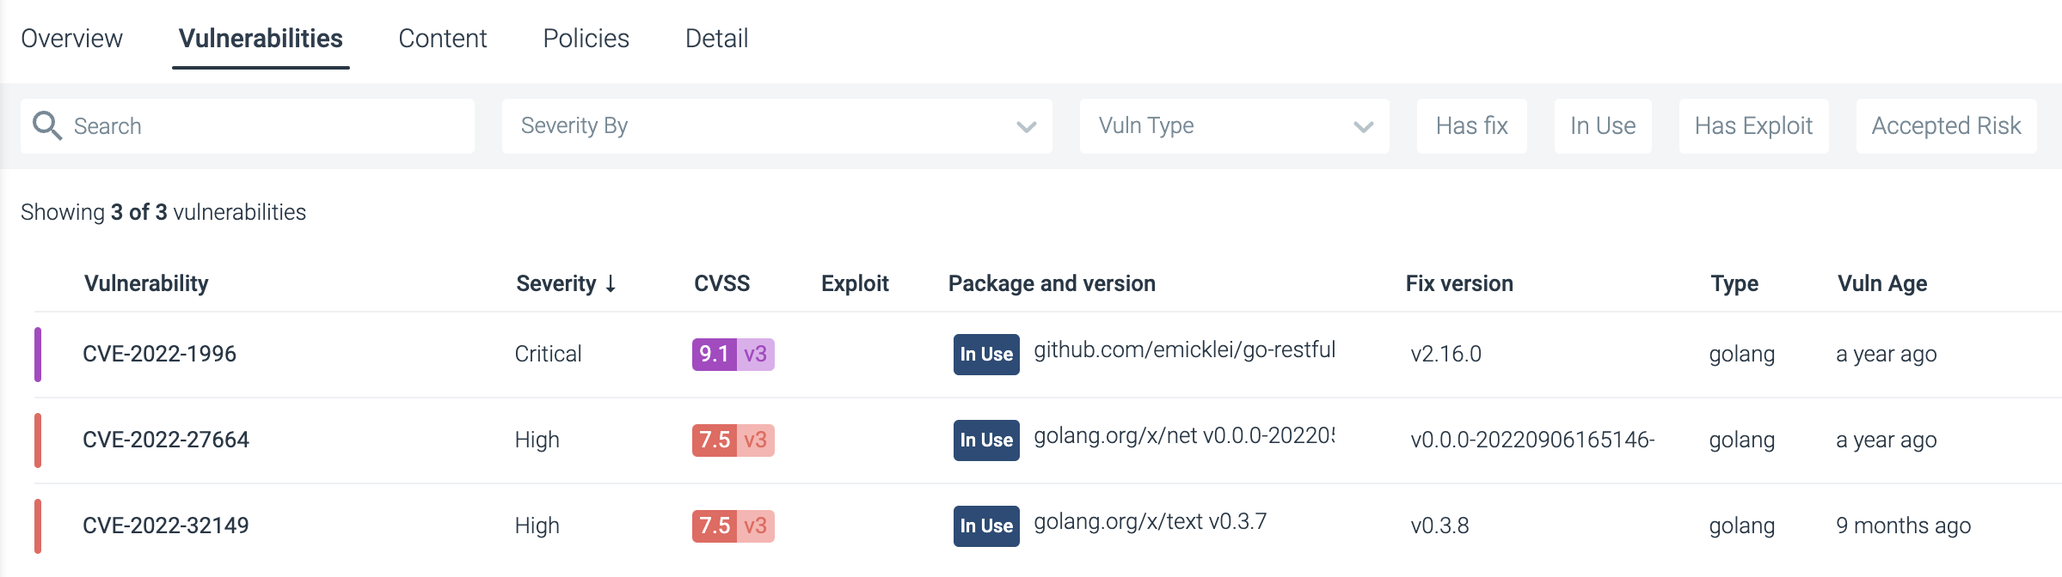
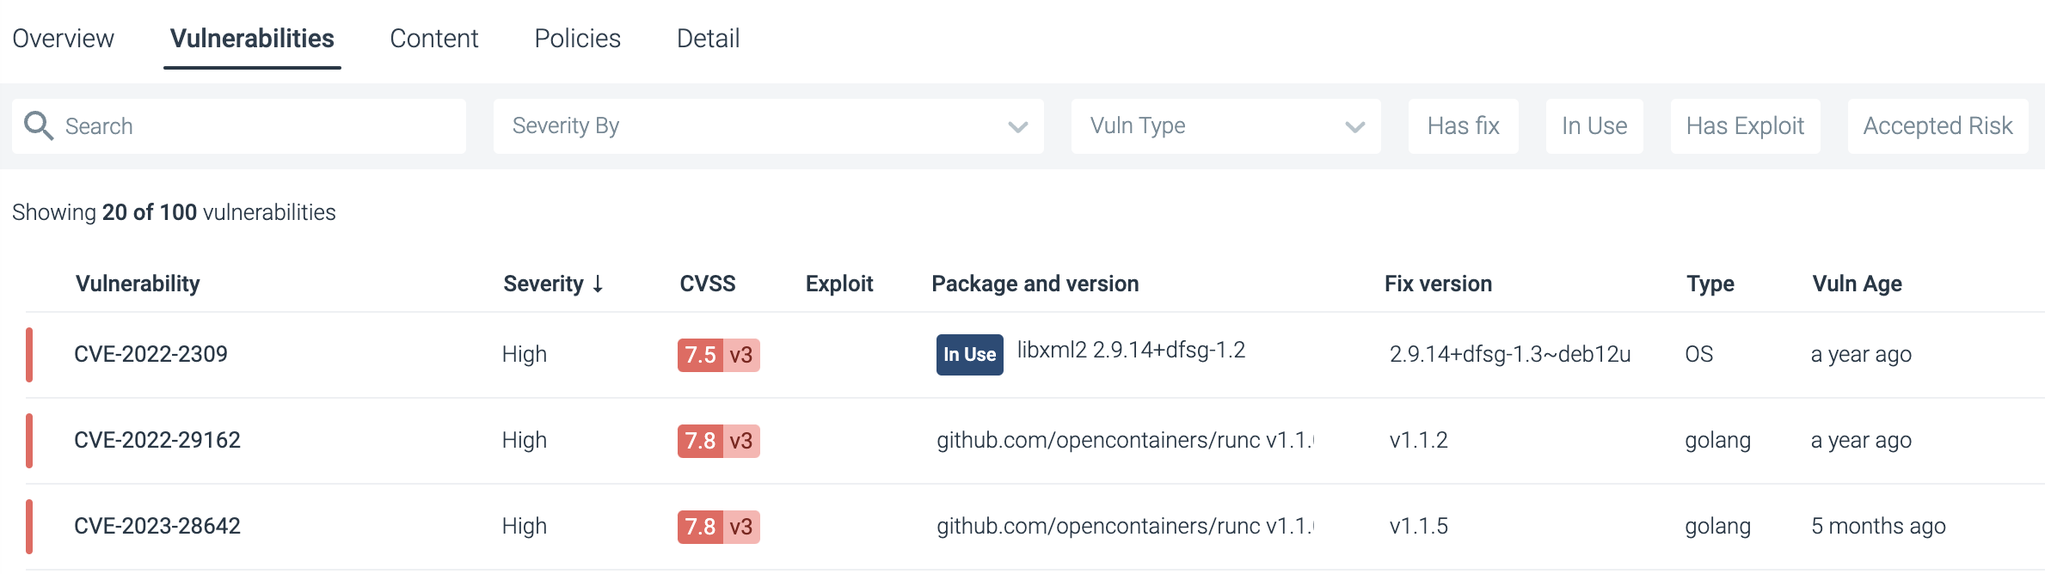
Updated Instructions

diff --git a/Readme.md b/Readme.md
@@ -10,17 +10,17 @@ We have also provisioned a user for you within Sysdig Secure. While this Sysdig 
 
 ### AWS Environment
 
-You'll have received the AWS account ID as well as your IAM username and password from the facilitator. To sign into your environment:
+You'll have received your IAM username and password from the facilitator. To sign into your environment:
 
 1. Open a web browser and go to https://aws.amazon.com/console/
 1. If prompted, choose to sign in with an IAM user (as opposed to the Root user) and enter the AWS Account ID of **sysdig-sales-engineering** 
-1. Enter the IAM user name and password you were provided and click the **Sign in** button
+1. Enter the IAM username and password you were provided and click the **Sign in** button
 1. Pick the **Sydney** or **Singapore** region in the drop-down in the upper right of the console (you'll have been told which of the two with your login details)
     1. ![](instruction-images/region.png)
 1. Go to the EC2 service's console (you can type EC2 in the Search box on top and then click on the EC2 service in the results)
 1. Click on the **Instances (running)** link under **Resources** to be taken to a list of running EC2 Instances 
     1. ![](instruction-images/instances1.png)
-1. In the **Find instance by attribute or tag** search box type **AttendeeX** (where X is your attendee number at the end of your username) and press enter/return 
+1. In the **Find instance by attribute or tag** search box type **AttendeeXX** (where XX is your attendee number at the end of your username) and press enter/return 
 1. Tick the box next to the jumpbox and then click the **Connect** button on top 
     1. ![](instruction-images/instances2.png)
 1. Choose the **Session Manager** tab and then click the **Connect** button 
@@ -31,21 +31,21 @@ You'll have received the AWS account ID as well as your IAM username and passwor
 
 ### Sysdig environment
 
-You'll have received a login and password as well as what region to sign into for Sysdig from the facilitator. To sign into your environment:
+You'll have received a login and password for Sysdig from the facilitator. To sign into your environment:
 
 1. Open a web browser and go to https://sysdig.com
 1. Under the Log In dropdown on the top right of the page choose **AWS-AP-Sydney** under **Sysdig Secure** (NOTE: not Sysdig Monitor which we won't be looking at today)
     1. ![](instruction-images/sysdiglogin.png)
 1. Enter the email address and password you were provided for Sysdig and click the **Log in** button
-1. On the Customize your Sysdig experience screen just click the **Get into Sysdig** button in the lower right hand corner
+1. If you see the Customize your Sysdig experience screen, then click the **Get into Sysdig** button in the lower right hand corner to take you through to the **Home** screen
 
 ## Module 1 - Runtime Threat Detection and Prevention
 
-In our first module we'll be exploring Sysdig's capabilities around detecting - and even preventing - runtime threats.
+In our first module, we'll be exploring Sysdig's capabilities around detecting - and even preventing - runtime threats.
 
-Regardless of how an attacker gets in, they will do many of the same things - a predictable sequence of things best explained by the [MITRE ATT&CK Framework](https://attack.mitre.org/). Sysdig's threat research team runs a large fleet of honeypots around the world to learn first-hand all the things people do once they get in - and then continually update our library of [Rules](https://docs.sysdig.com/en/docs/sysdig-secure/policies/threat-detect-policies/manage-rules/) (what to look for) and [Managed Policies](https://docs.sysdig.com/en/docs/sysdig-secure/policies/threat-detect-policies/manage-policies/) (collection of Rules to look for - and what to do when we find it) to alert all of our customers to those suspicious behaviors within their environments in real-time as they emerge.
+Regardless of how an attacker gets in, they will do many of the same things - a predictable sequence of things best explained by the [MITRE ATT&CK Framework](https://attack.mitre.org/). Sysdig's threat research team runs a large fleet of honeypots around the world to learn first-hand all the things people do once they get in - and then continually updates our library of [Rules](https://docs.sysdig.com/en/docs/sysdig-secure/policies/threat-detect-policies/manage-rules/) (what to look for) and [Managed Policies](https://docs.sysdig.com/en/docs/sysdig-secure/policies/threat-detect-policies/manage-policies/) (what to do when we find it) on behalf of all of our customers. You can also make your own custom (Falco) Rules and/or Policies beyond what we offer if you'd like - this is fully transparent and based on opensource tooling/standards rather than a magic black box!
 
-Our agent(s) continually watch for the **Rules** against various streams of activity (defined in your **Policies**) and then fire **Events** when it sees them (with relevant context) in real-time. It can do so against these sources - with more coming soon such as from other popular cloud/SaaS services:
+Our agent(s) continually watch for the **Rules** against various streams of activity (defined in your **Policies**) and then fire **Events** when it sees them, with all the relevant context, in real-time. It can do so against these sources - with more coming soon such as from other popular cloud/SaaS services (such as GitHub, Okta, etc.):
 * Linux kernel System Calls of your Nodes/Containers
 * The Kubernetes Audit Trail
 * The audit trails of AWS, Azure and GCP
@@ -61,8 +61,9 @@ In addition to our 'traditional' Rules/Policies-based approach, there are two mo
 1. So lets's generate some Events!
     1. Click this link to open the (simple yet insecure) code for the security-playground service on your cluster in a new tab - https://github.com/jasonumiker-sysdig/example-scenarios/blob/main/docker-build-security-playground/app.py
         1. This Python app serves a **very** insecure REST API that will return the contents of any file on the filesystem, write any file to the filesystem and/or execute any file on the filesystem in response to simple **curl** commands
-        1. This is simulating a very bad remote code execution (RCE) vulnerability - which could be either with your code or in a package it uses (e.g. Log4J, Struts, etc.)
-            1. As it is the behavior that happens when that is exploited that matters here!
+            1. And you can combine them to download/write a file then execute it for example
+        1. This is simulating a very bad remote code execution (RCE) vulnerability - which could be either with your own code or in a package it uses (e.g. Log4J, Struts, etc.)
+            1. As it is detecting what happens when the vulnerability is being exploited that we're interested in here
     1. Go back to the the Session Manager terminal browser tab for your jumpbox
     1. Type **cat ./example-curls.sh** to have a look at a script with some example **curl** commands we are going to run against the security-playground service:
         1. Reading the sensitive path **/etc/shadow**
@@ -84,24 +85,24 @@ In addition to our 'traditional' Rules/Policies-based approach, there are two mo
     1. Choose the Events tab on the right
     1. As you can see there are a number of events that Sysdig picked up here - in real-time!
         1. ![](instruction-images/insights3.png)
-    1. If you click into the the top **Detect outbound connections to common miner pools** you'll see all the context of that event including details of the process, the network, the AWS account, the Kubernetes cluster/namespace/deployment, the host as well as the container
+    1. If you click into the the top **Detect outbound connections to common miner pools** and then scroll through it you'll see all the context of that event including details of the process, the network, the AWS account, the Kubernetes cluster/namespace/deployment, the host as well as the container
        1. In particular the process tree view shows us that our Python app (gunicorn) launched a shell that launched the crypto miner xmrig - that looks suspicious!
        1. ![](instruction-images/processtree.png)
+       1. You can also expand out each section by clicking the carrot exposing even more details/context
 1. Understanding these Events
-    1. You should click into each Event to reveal all the detail/context of each. The things that we picked up here include:
+    1. You should scroll down to the oldest/first Event then click into each to reveal all the detail/context of each. The things that we picked up here include:
         1. **Read sensitive file untrusted** - reading the **/etc/shadow** file which a web service shouldn't be doing
-        1. **Drift Detection** - every time an executable was added to the container at runtime that wasn't in the image 
-            1. It is not best practice to make changes to containers at runtime (rather you should build a new image and redeploy the service in an immutable pattern)
-        1. **Launch Package Management Process in Container** - just like with **Drift Detection** you shouldn't be adding or updating packages in running containers with apt/yum/dnf - but instead do it in your **Dockerfile** as part of the container build process
-        1. **Launch Suspicious Network Tool in Container** - not only shouldn't you be doing this (you know your own environment) but it is a common early step for attackers to try to work out what networks the workload they've exploited is running on and what else they can get to
-        1. **Privileged Shell Spawned Inside Container** - running shell scripts as root within a running container is suspicious/unusual
-        1. **The docker client is executed in a container** - this fires not just on the **docker** CLI but also other container CLIs such as **crictl**. 
+        1. **Drift Detection** - every time an executable was added to the container at runtime (it wasn't in the image) and then it was run
+            1. It is not best practice to make changes to containers at runtime - rather you should build a new image and redeploy the service in an immutable pattern
+        1. **Launch Package Management Process in Container** - just like with **Drift Detection**, you shouldn't be adding or updating packages in running containers with apt/yum/dnf - but instead do it in your **Dockerfile** as part of the container image build process
+        1. **Suspicious network tool downloaded and launched in container** - it is a common early step for attackers to run a scan to try to work out what network the workload they've exploited is in, and thus, what else they can get to
+        1. **The docker client is executed in a container** - this fires not just on the **docker** CLI but also other container CLIs such as **crictl** and **kubectl**. 
             1. It is unusual for a container to be trying to talk directly to the container runtime/socket on a Kubernetes cluster - and that you can is actually proof a container escape has happened!
-            1. Note that if you expand out the Process section it'll show the commands that were run such as that **psql** that was exfiltrating our data.
+            1. Note that if you expand out the Process section it'll show the commands that were run such as that **psql** that was exfiltrating our data
             1. ![](instruction-images/psql.png)
-        1. **Contact EC2 Instance Metadata Service From Container** - your EKS Pods should be using other means such as [IAM Roles for Service Accounts (IRSA)](https://docs.aws.amazon.com/eks/latest/userguide/iam-roles-for-service-accounts.html) to interact with AWS. It going through the Node to use its is suspicious.
+        1. **Contact EC2 Instance Metadata Service From Container** - your EKS Pods should be using other means such as [IAM Roles for Service Accounts (IRSA)](https://docs.aws.amazon.com/eks/latest/userguide/iam-roles-for-service-accounts.html) to interact with AWS. It going through the Node to use its credentials instead is suspicious
         1. **Malicious filenames written** and **Malicious binary detected** - we look for many suspicious filenames and hashes from our threat feeds - including crypto miners such as the **xmrig** here
-        1. **Detect outbound connections to common miner pool ports** - we look at network traffic and when the destination are things like crypto miner pools (which will pick up even if they obfuscate the miner filename etc.)
+        1. **Detect outbound connections to common miner pool ports** - we look at network traffic (at Layer 3) and when the destination are suspicious things like crypto miner pools or [Tor](https://www.torproject.org/) entry nodes
 
 And this is only a small sample of the Rules we have out-of-the-box as part of the service!
 
@@ -135,45 +136,52 @@ And, if we do all three, then we could have prevented the **entire** attack (rat
 
 ### How to fix this workload (security-playground)
 
-For each of the things above - these are the solutions:
+For each of the causes above - these are the solutions:
 1. To fix the vulnerabilities in our case here, we can use a Static application security testing (SAST) product to identify our insecure code. Our partner [Snyk](https://snyk.io/product/snyk-code/) is a good choice here. 
     1. ![](instruction-images/Snyk-SAST.png)
-    1. Alternatively, if this was based on a known/public CVE within the app/container (such as Log4J etc.) instead, Sysdig's Vulnerability Management (which we'll explore in the next module) would have detected it and let us know to patch the base layer or code package to an updated version with out the vulnerability (and what version has the fix).
+    1. Alternatively, if this was based on a known/public CVE within the app/container (such as Log4J etc.) instead, Sysdig's Vulnerability Management (which we'll explore in the next module) would have detected it and let us know to patch either the base layer of our container or the code package to an updated version without the vulnerability
 1. In order to run this container as non-root we actually need to change the Dockerfile in the following ways. Here is the [Dockerfile](https://github.com/jasonumiker-sysdig/example-scenarios/blob/main/docker-build-security-playground/Dockerfile) before these changes - and [here](https://github.com/jasonumiker-sysdig/example-scenarios/blob/main/docker-build-security-playground/Dockerfile-unprivileged) it is after.
     1. We need to [add a user and group to use](https://github.com/jasonumiker-sysdig/example-scenarios/blob/main/docker-build-security-playground/Dockerfile-unprivileged#L3) as part of the docker build
-    1. We need to [specify in the Dockerfile to run as that User by default](https://github.com/jasonumiker-sysdig/example-scenarios/blob/main/docker-build-security-playground/Dockerfile-unprivileged#L8) (note this is just the default and can be overridden at runtime - unless a restricted PSA blocks that)
-    1. We need to put our app in a folder that user/group has permissions to read and execute (and perhaps write to as well) - [in this case we use our new user's home directory](https://github.com/jasonumiker-sysdig/example-scenarios/blob/main/docker-build-security-playground/Dockerfile-unprivileged#L9)
+    1. We need to [specify in the Dockerfile to run as that User by default](https://github.com/jasonumiker-sysdig/example-scenarios/blob/main/docker-build-security-playground/Dockerfile-unprivileged#L8) (note this is just the default and can be overridden at runtime - unless a restricted PSA or other admission controller blocks that)
+    1. We need to put our app in a folder that user/group has permissions to read and execute (and perhaps write to as well) - [in this case we use our new user's home directory](https://github.com/jasonumiker-sysdig/example-scenarios/blob/main/docker-build-security-playground/Dockerfile-unprivileged#L9) as opposed to the original /app
     1. There was a great talk about building least privilege containers from the recent KubeCon Europe that goes much deeper here - https://youtu.be/uouH9fsWVIE
-1. Ideally people will not put unnecessary options in their PodSpecs that undermine their security and allow container escapes - but how can you be sure? 
+1. We just need to remove the insecure options from our PodSpec. But we also need to, ideally, prevent people from putting those sorts of options in them as well.
     1. There is now a feature built-in to Kubernetes (which GAed in 1.25) to enforce that they don't - [Pod Security Admission](https://kubernetes.io/docs/concepts/security/pod-security-admission/).
         1. This works by [adding labels onto each Namespace](https://kubernetes.io/docs/tasks/configure-pod-container/enforce-standards-namespace-labels/). There are two standards that it can warn about and/or enforce for you - baseline and restricted.
             1. [baseline](https://kubernetes.io/docs/concepts/security/pod-security-standards/#baseline) - this prevents the worst of the parameters in the PodSpec such as hostPid and Privileged but still allows the container to run as root
             1. [restricted](https://kubernetes.io/docs/concepts/security/pod-security-standards/#restricted) - this goes further and blocks all insecure options including running as non-root
-    1. Sysdig has a Posture/Compliance feature that can help both catch the IaC before it is deployed as well as remediate any issues at runtime which we'll look at in the 3rd module.
+    1. And Sysdig has a Posture/Compliance feature that can help both catch the IaC before it is deployed as well as remediate any issues at runtime - which we'll look at in the 3rd module.
 1. We can block the execution of any new scripts/binaries added at runtime with Container Drift (in this case we only had it detecting not preventing Drift)
 1. We can limit the egress access of Pod(s) to the Internet via either Kubernetes NetworkPolicy (which we cover in Module 4) or by making each thing go through an explicit authenticated proxy to reach the Internet with an allow-list of what that service is able to reach etc.
 1. We can either block egress access for the Pod to 169.254.0.0/16 via NetworkPolicy as described above and/or ensure a maximum of 1 hop with IDMSv2 as AWS describes in their documentation - https://docs.aws.amazon.com/whitepapers/latest/security-practices-multi-tenant-saas-applications-eks/restrict-the-use-of-host-networking-and-block-access-to-instance-metadata-service.html
 
-### Seeing the fixes
-We have an example workload where 1-3 of **Why did this attack work** have been fixed running as well - **security-playground-unprivileged**. It was built with our new non-root Dockerfile and it is running in the security-playground-restricted Namespace where a PSA is enforcing a restricted security standard (meaning it can't run as root or have the options such as hostPID or privileged SecurityContext to allow for container escapes). You can see the labels on this namespace implementing the PSA by running `kubectl describe namespace security-playground-restricted` - note the pod-security Labels.
+### Seeing the fixes in action
+We have an example workload where 1-3 of **Why did this attack work** have been fixed running as well - **security-playground-unprivileged**. It was built with our new non-root Dockerfile and it is running in the security-playground-restricted Namespace where a PSA is enforcing a restricted security standard (meaning it can't run as root or have the options such as hostPID or privileged SecurityContext to allow for container escapes). You can see the labels on this namespace implementing the PSA by running **kubectl describe namespace security-playground-restricted** - note the **pod-security** Labels.
 
 You can see the original Kubernetes PodSpec [here](https://github.com/jasonumiker-sysdig/example-scenarios/blob/main/security-playground.yaml#L46) and the updated one with all the required changes to pass the restricted PSA [here](https://github.com/jasonumiker-sysdig/example-scenarios/blob/main/security-playground-restricted.yaml#L26).
 
 To see how our attack fares with 1-3 fixed run **./example-curls-restricted.sh** (it is the same as the last file just pointed at the different port/service for security-playground-restricted). You'll note:
-* Anything that required root within the container (reading /etc/shadow, writing to /bin, installing packages from apt, etc.) fails with a **500 Internal Server Error** because it didn't have permissions to do it.
+* Anything that required root within the container (reading /etc/shadow, writing to /bin, installing packages from apt, etc.) fails with a **500 Internal Server Error** because our Python app didn't have permissions to do it.
 * Without **root**, **hostPid** and **privileged** it couldn't escape the container
 * The only things that worked were hitting the Node's EC2 Metadata endpoint and downloading/running the xmrig crypto miner into the user's home directory (where it still had rights to do so.)
 
-And, if we add in Sysdig enforcing that any Container Drift is prevented (that no new executables added at runtime can be run), then that blocks everything but the EC2 Instance Metadata access (which we'll block with NetworkPolicies in Module 4). To see that: 
-* Go to **Policies** -> **Runtime Policies** and then look at **security-playground-restricted-nodrift** - Note that rather than just detecting drift (as in the other Namespaces) we are blocking it if the workload is in the security-playground-restricted-nodrift Namespace
-* Run **./example-curls-restricted-nodrift.sh** which runs all those same curls but against a non-root/restricted workload running in that Namespace (and so will have the Drift blocked this time).
+And, if we also add in Sysdig enforcing that any Container Drift is prevented (that no new executables added at runtime can be run), then that blocks *everything* but the EC2 Instance Metadata access (which we'll block with NetworkPolicies in Module 4). To see that: 
+* Go to **Policies** -> **Runtime Policies** and then look at **security-playground-restricted-nodrift** - Note that rather than just detecting drift (as in the other Namespaces) we are blocking it if the workload is in the **security-playground-restricted-nodrift** Namespace
+    * And we have a another copy of our security-playground-restricted service running there on a different HostPort
+* Run **./example-curls-restricted-nodrift.sh** which runs all those same curls but against a workload that is both restricted like the last example but also has Sysdig preventing Container Drift (rather than just detecting it)
+    1. If you look at the resulting Events in our Insights UI you'll see the Drift was **prevented** rather than just detected this time
+    1. ![](instruction-images/driftprevented.png)
 
-So, as you can see, a combination of fixing the posture of the workload as well as Container Drift goes a long way to preventing nearly everything we did!
+So, as you can see, a combination of fixing the posture of the workload as well as Sysdig's Container Drift goes a long way to preventing so many common attacks - even against vulnerable workloads!
 
-One last thing you can try is to test trying to change security-playground-restricted to undermine its security like security-playground. Run the following command to try to deploy the insecure container image and PodSpec to that namespace **kubectl apply -f security-playground-test.yaml**. Note how that is prevented in the **security-playground-restricted** Namespace due to the restricted PSA in place there.
+One last thing you can try is to test trying to change security-playground-restricted to undermine its security like security-playground. Run the following command to try to deploy the insecure container image and PodSpec to that namespace **kubectl apply -f security-playground-test.yaml**. Note how we're warned that is not allowed in the **security-playground-restricted** Namespace due to the restricted PSA in place there. Even though it let the Deployment create - you'll note that it (actually its ReplicaSet) is unable to actually launch the Pods.
 ![](instruction-images/psa.png)
 
-This table summarises our experiments in securing this workload:
+Run **kubectl events security-playground -n security-playground-restricted** to see the Pod creation failures.
+
+This is why blocking at runtime with PSAs are a bit of a blunt instrument - you should also let people know earlier/lefter in the pipeline that this is going to happen (and they need to fix the PodSpecs) rather than have them scratch their head on why their pods are not launching.
+
+This table summarises our experiments in fixing this workload:
 ||security-playground|security-playground-restricted|security-playground-restricted + container drift enforcement|
 |-|-|-|-|
 |1|allowed|blocked (by not running as root)|blocked (by not running as root)|
@@ -210,7 +218,8 @@ To explore Sysdig's runtime vulnerability scanning:
 1. Close that vulnerability detail pane
 1. Click on the **In Use** filter button - this excludes all the vulnerabilities that we have never seen run (and therefore are much less likely to be exploitable).
 1. Click on the **Has fix** button - this excludes those vulnerabilities that do not yet have a new version with a fix available (and therefore your team can't patch them yet)
-    1. What we are left with is those vulnerabilities that are actually running (not just in the image) and for which there is a fix. This is a more reasonable patching work to give somebody
+    1. What we are left with is those vulnerabilities that are actually running (not just in the image) **and** for which there is a fix. This is a more reasonable and prioritised patching task to give somebody!
+    1. ![](instruction-images/vuln5.png)
 
 ### Pipeline vulnerability scanning
 
@@ -219,11 +228,10 @@ To scan container images for vulnerabilities before they hit a registry, much le
 Here are the instructions for how to install and run our vulnerability CLI scanner - https://docs.sysdig.com/en/docs/installation/sysdig-secure/install-vulnerability-cli-scanner/.
 
 We have already installed it on your jumpbox for you. You can run a scan of the image **logstash:7.16.1** which is an image that has Log4J in it by running the following command:
-******
-./sysdig-cli-scanner -a app.au1.sysdig.com logstash:7.16.1
-******
 
-Not only do you get that output into your build logs for the pipeline stage but you can also explore the results the Sysdig UI now under **Vulnerabilities** -> **Pipeline**. Note that this is missing the runtime context (as, since it was scanned in a pipeline, and we don't yet know that runtime context).
+**./sysdig-cli-scanner -a app.au1.sysdig.com logstash:7.16.1**
+
+Not only do you get that output into your build logs for the pipeline stage, but you can also explore the results the Sysdig SaaS UI by following that link listed in the output or going to **Vulnerabilities** -> **Pipeline** in the UI. Note that this is missing the runtime context (as, since it was scanned in a pipeline, and we don't yet know that runtime context).
 
 We also have the [capability to scan images in your registries](https://docs.sysdig.com/en/docs/installation/sysdig-secure/install-registry-scanner/) - but we won't explore that in this workshop.
 
@@ -237,8 +245,8 @@ The Center for Internet Security (CIS) publishes a security benchmark for many c
 
 1. Go to the Sysdig tab in your browser
 1. Go to **Posture** then **Compliance**
-1. Scroll to the heading that is your cluster name (based on your AWS attendee #)
-1. Click on the **CIS Amazon Elastic Kubernetes Service Benchmark** under your heading
+1. We have used our [Team and Zone-based authorization](https://docs.sysdig.com/en/docs/sysdig-secure/policies/zones/) so that your Team can only see your own cluster/Zone.
+1. Click on the **CIS Amazon Elastic Kubernetes Service Benchmark** under your heading (this is the only compliance standard we've set against your Zone here - but we have many others such as NIST, SOC2, PCIDSS, etc.)
     1. ![](instruction-images/posture1.png)
 1. There are some controls here that would have prevented our attack. 
 1. If you click into the **Show Results** link for each you'll see the list of failing resources then you can click **View Remediation** next to the **security-playground** Resource to see the Remediation instructions:
@@ -252,7 +260,9 @@ The Center for Internet Security (CIS) publishes a security benchmark for many c
     1. ![](instruction-images/posture2.png)
     1. ![](instruction-images/posture3.png)
 
-If these settings for **security-playground** were configured to be passing CIS' EKS Benchmark it would be just like the **security-playground-unprivileged** workload which, as we saw, fared much better in our attack.
+If these settings for **security-playground** were configured to be passing CIS' EKS Benchmark, then it would be just like the **security-playground-unprivileged** workload which, as we saw, fared **much** better in our attack.
+
+And, in addition to helping you to remediate any security issues with your workload(s) and cluster(s), this tool will help you to prove to your auditors that they are compliant with any standards you need to adhere to as well.
 
 ## Module 4 - Kubernetes native firewall (NetworkPolicies)
 
@@ -267,6 +277,7 @@ Even after installing a provider every Pod can talk to every other Pod by defaul
 Sysdig's keeps track of all the network flows and works out the Kubernetes context/labels of everything involved. This allows us to show you the traffic we've seen as well as help you generate NetworkPolicies that would allow only that traffic. In our UI you can untick things we've seen if you don't want to allow them as well.
 
 To explore this feature:
+1. Run **./example-curls-networkpolicy.sh** and see how our security-playground Pod can reach hello-server (running in a different Namespace)
 1. Open the Sysdig tab in your browser
 1. Go to **Network** on the left
 1. Pick your EKS cluster as well as the Namespace **hello** and the type **Service**
@@ -290,14 +301,19 @@ To explore this feature:
 1. Paste it in there with a **Shift-Ctrl-V** on PC or a **Shift-Command-V** on Mac
 1. Press Esc to leave insert mode then type **:wq** to save and exit
 1. Type **kubectl apply -f policy.yaml** to apply it
-1. Now run **./example-curls-networkpolicy.sh** to see that it now cannot reach hello-server due to our new NetworkPolicy
-1. Run **kubectl logs deployment/hello-client-blocked -n hello** to see the logs from the hello-client-blocked service showing that it too has now been blocked by the NetworkPolicy.
+1. Run **./example-curls-networkpolicy.sh** again to see that it now cannot reach hello-server due to our new NetworkPolicy (it will timeout)
+1. Run **kubectl logs deployment/hello-client-blocked -n hello** to see the logs from the hello-client-blocked service showing that it too has now been blocked by the NetworkPolicy (wget: download timed out)
+1. Run **kubectl logs deployment/hello-client -n hello** to see the logs from the hello-client service showing it still **can** still reach hello-server like we intended
 
-This isn't just useful for controlling the ingress to services like we just did with hello-server, but also for limiting egress to the Internet as well. Let's look at how this could help with our insecure security-playground example from above:
+#### Controlling Network Egress - especially to the Internet
+
+This isn't just useful for controlling the ingress to services like we just did with hello-server, but also for limiting egress - especially to the Internet - as well.
+
+Let's look at how this could help with our insecure security-playground example from above:
 1. Go back to the Sysdig browser tab
 1. In the **Network** section choose the **security-playground** namespace and the **Deployment** object type
     1. ![](instruction-images/network6.png)
-1. Here you'll not only see the other side of the hello-server interaction (this deployment calling out to hello-server) - but also all the public IPs that it talked to as we did our curls - to download apt packages and the crypto miner etc.
+1. Here you'll not only see the other side of the hello-server interaction (this deployment calling out to hello-server) - but also all the Internet IPs that it talked out to as we did our curls - to download apt packages and talk to the crypto miner pool etc.
 1. You can generate a NetworkPolicy excluding all that Internet egress like we did above - go to the **Egress** tab
     1. We actually default to excluding all IPs/CIDRs outside the cluster (that is why the lines are red):
         1. Untick the hello-server so that security-playground won't be able to egress to that
@@ -305,8 +321,9 @@ This isn't just useful for controlling the ingress to services like we just did 
             1. If you wanted to allow these you can click the checkmark with a plus icon to the right of them - and click that again to remove (when it turns into a checkmark with a minus)
     1. ![](instruction-images/network7.png)
     1. This is another control that would prevent many of the things we did with our curls at the start!
-1. Rather than use the Generated Policy as-is, we'll remove the Ingress line from the policyTypes so we can still reach the service first.
-    1. Copy and paste this into a text editor and remove the Ingress lines and then copy that now Ingress-less policy to your clipboard
+1. Go to the Generated Policy tab
+    1. Rather than use the Generated Policy as-is, we'll remove the Ingress line from the policyTypes so we can still reach the service first.
+        1. Copy and paste this into a text editor and remove the Ingress lines and then copy that now Ingress-less policy to your clipboard
     1. ![](instruction-images/network8.png)
 1. Go back to your jumpbox terminal browser tab
 1. Run **vi policy2.yaml** 
@@ -325,3 +342,7 @@ To learn more about the syntax of NetworkPolicies there is a great resource on G
 This was just a brief introduction of some of the many capabilities that Sysdig offers customers to help with securing your Kubernetes environments, including AWS EKS, as-a-service.
 
 You can sign up for a free Sysdig trial at https://sysdig.com/start-free/ and have a look for yourself in your own environment(s) today!
+
+If you have any questions please reach out to me at jason.umiker@sysdig.com
+
+Thank you for coming!
